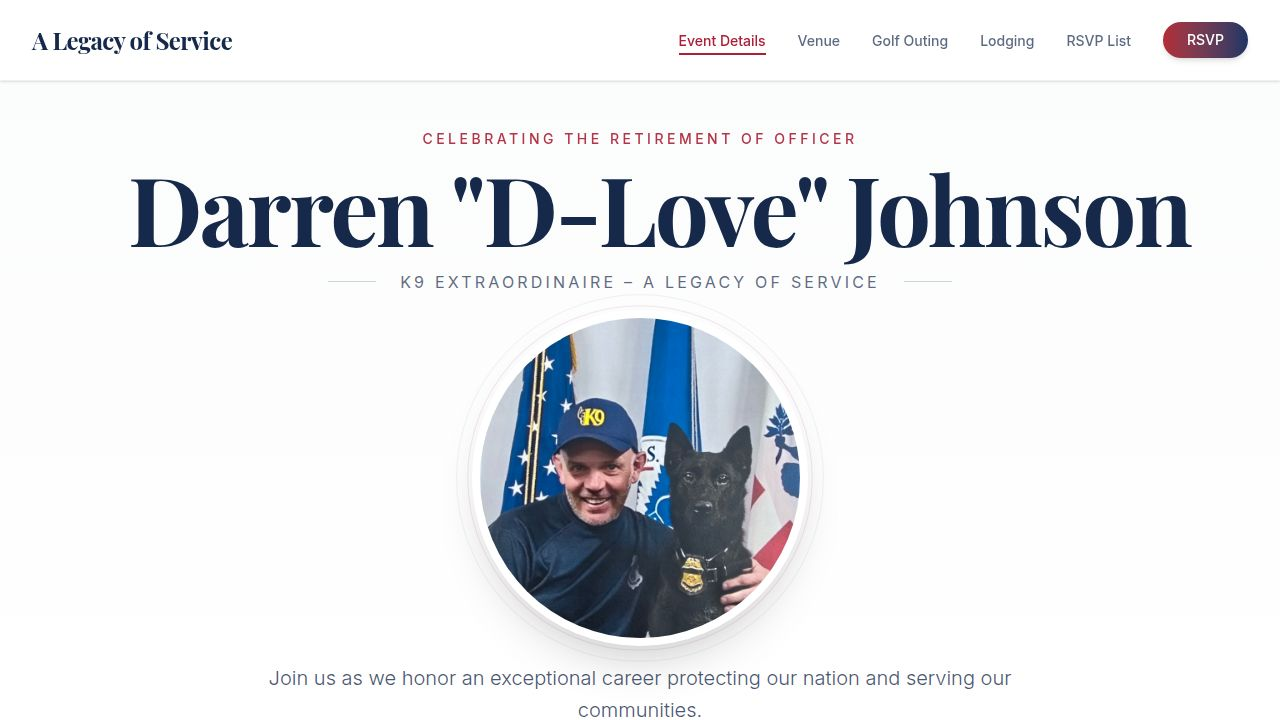
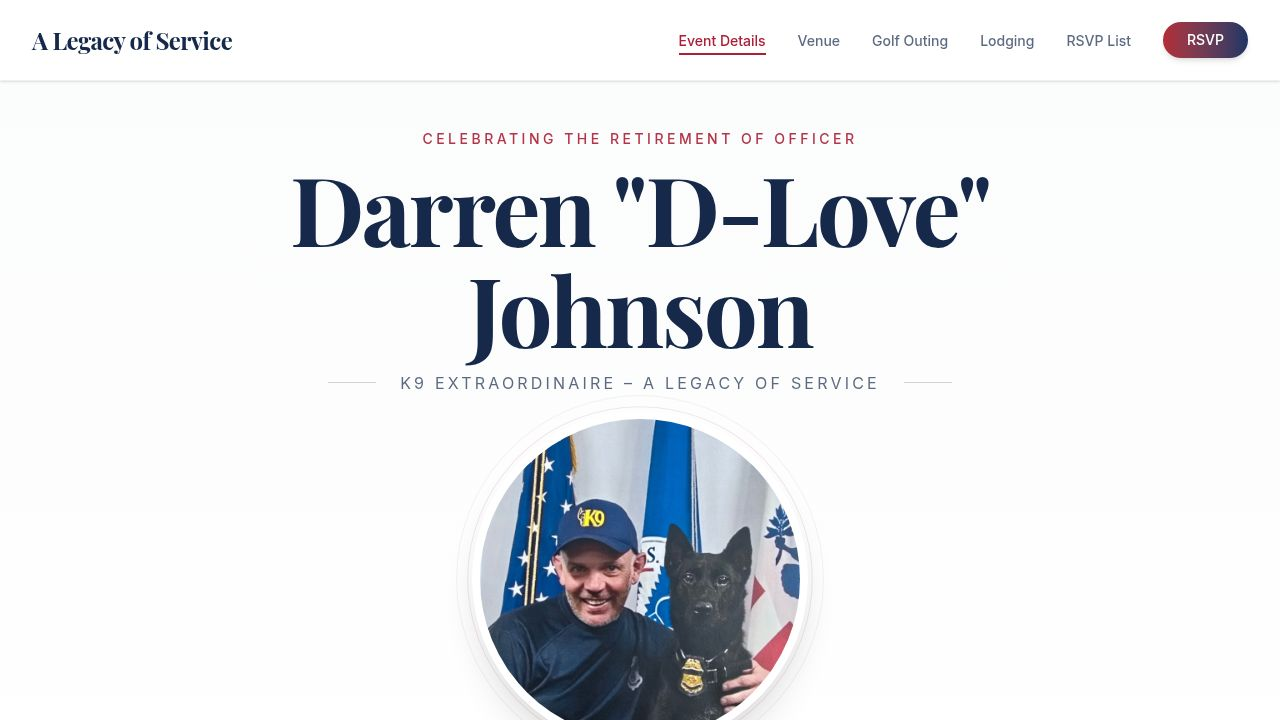
Adjust home page hero section to fit mobile screens
Modify the home page hero section, including image sizing, title text wrapping, and subtitle stacking, to ensure proper display on mobile devices.

Replit-Commit-Author: Agent
Replit-Commit-Session-Id: ec79d2a0-bf52-4d46-a2d1-49995a9528fe
Replit-Commit-Checkpoint-Type: full_checkpoint
Replit-Commit-Event-Id: 68987ff4-76dd-443d-902b-66bbefdb7080
Replit-Commit-Screenshot-Url: https://storage.googleapis.com/screenshot-production-us-central1/073ef8d3-2af6-4e3b-a7f5-cfb358581465/ec79d2a0-bf52-4d46-a2d1-49995a9528fe/tZxPgkZ
Replit-Helium-Checkpoint-Created: true

Changed region(s): [[0.0938, 0.2444, 0.9375, 1.0]]

diff --git a/client/src/pages/home.tsx b/client/src/pages/home.tsx
@@ -175,27 +175,27 @@ export default function Home() {
       <section className="relative pt-8 pb-6 lg:pt-10 lg:pb-8 bg-white flex flex-col items-center justify-center text-center px-4">
         <div className="absolute inset-0 bg-gradient-to-b from-muted/30 to-white pointer-events-none" />
         
-        <div className="relative z-10 animate-in fade-in slide-in-from-bottom-8 duration-1000 max-w-5xl mx-auto mt-2">
+        <div className="relative z-10 animate-in fade-in slide-in-from-bottom-8 duration-1000 max-w-5xl mx-auto mt-2 px-2">
           <p className="text-secondary font-medium tracking-[0.25em] uppercase text-xs md:text-sm mb-2 opacity-90">
             Celebrating the Retirement of Officer
           </p>
           
-          <h1 className="font-serif text-5xl md:text-7xl lg:text-8xl text-primary font-bold mb-3 tracking-tight leading-[1.05] whitespace-nowrap">
+          <h1 className="font-serif text-4xl sm:text-5xl md:text-7xl lg:text-8xl text-primary font-bold mb-3 tracking-tight leading-[1.05] break-words hyphens-auto">
             Darren "D-Love" Johnson
           </h1>
           
-          <div className="flex items-center justify-center gap-6 mb-6">
-            <div className="h-[1px] w-12 bg-primary/20" />
-            <h3 className="font-sans text-sm md:text-base text-primary/70 tracking-[0.2em] uppercase">
+          <div className="flex flex-col sm:flex-row items-center justify-center gap-2 sm:gap-6 mb-6">
+            <div className="hidden sm:block h-[1px] w-12 bg-primary/20" />
+            <h3 className="font-sans text-xs sm:text-sm md:text-base text-primary/70 tracking-[0.1em] sm:tracking-[0.2em] uppercase text-center">
               K9 Extraordinaire – A Legacy of Service
             </h3>
-            <div className="h-[1px] w-12 bg-primary/20" />
+            <div className="hidden sm:block h-[1px] w-12 bg-primary/20" />
           </div>
           
-          <div className="relative mb-6 inline-block group">
+          <div className="relative mb-6 inline-block group max-w-[90vw]">
             <div className="absolute inset-0 rounded-full border border-primary/5 scale-[1.15] transition-transform duration-1000 group-hover:scale-[1.2]" />
             <div className="absolute inset-0 rounded-full border border-secondary/10 scale-[1.08] transition-transform duration-700 group-hover:scale-[1.12]" />
-            <div className="w-64 h-64 md:w-80 md:h-80 rounded-full overflow-hidden shadow-2xl mx-auto relative z-10 ring-8 ring-white">
+            <div className="w-52 h-52 sm:w-64 sm:h-64 md:w-80 md:h-80 rounded-full overflow-hidden shadow-2xl mx-auto relative z-10 ring-4 sm:ring-8 ring-white">
               <img 
                 src={heroImages[currentHeroImageIndex]} 
                 alt="Officer Darren Johnson" 
